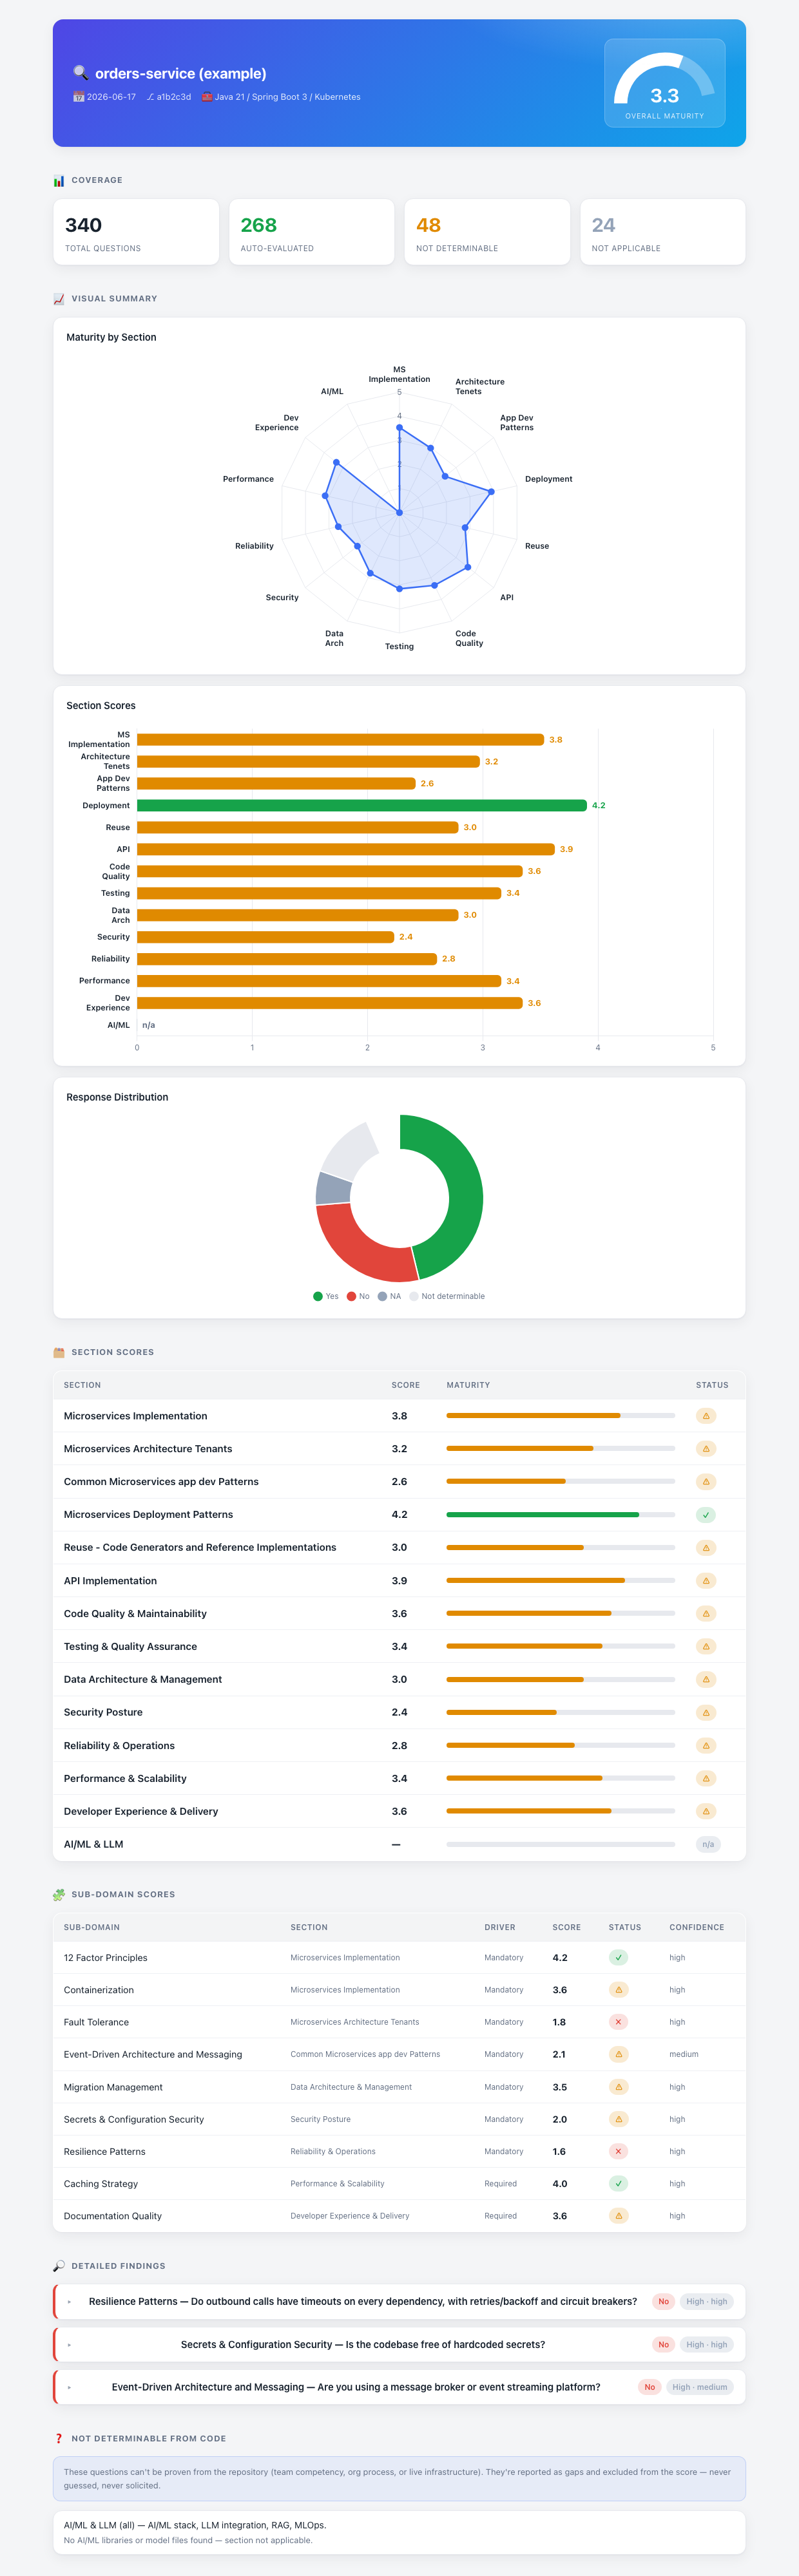
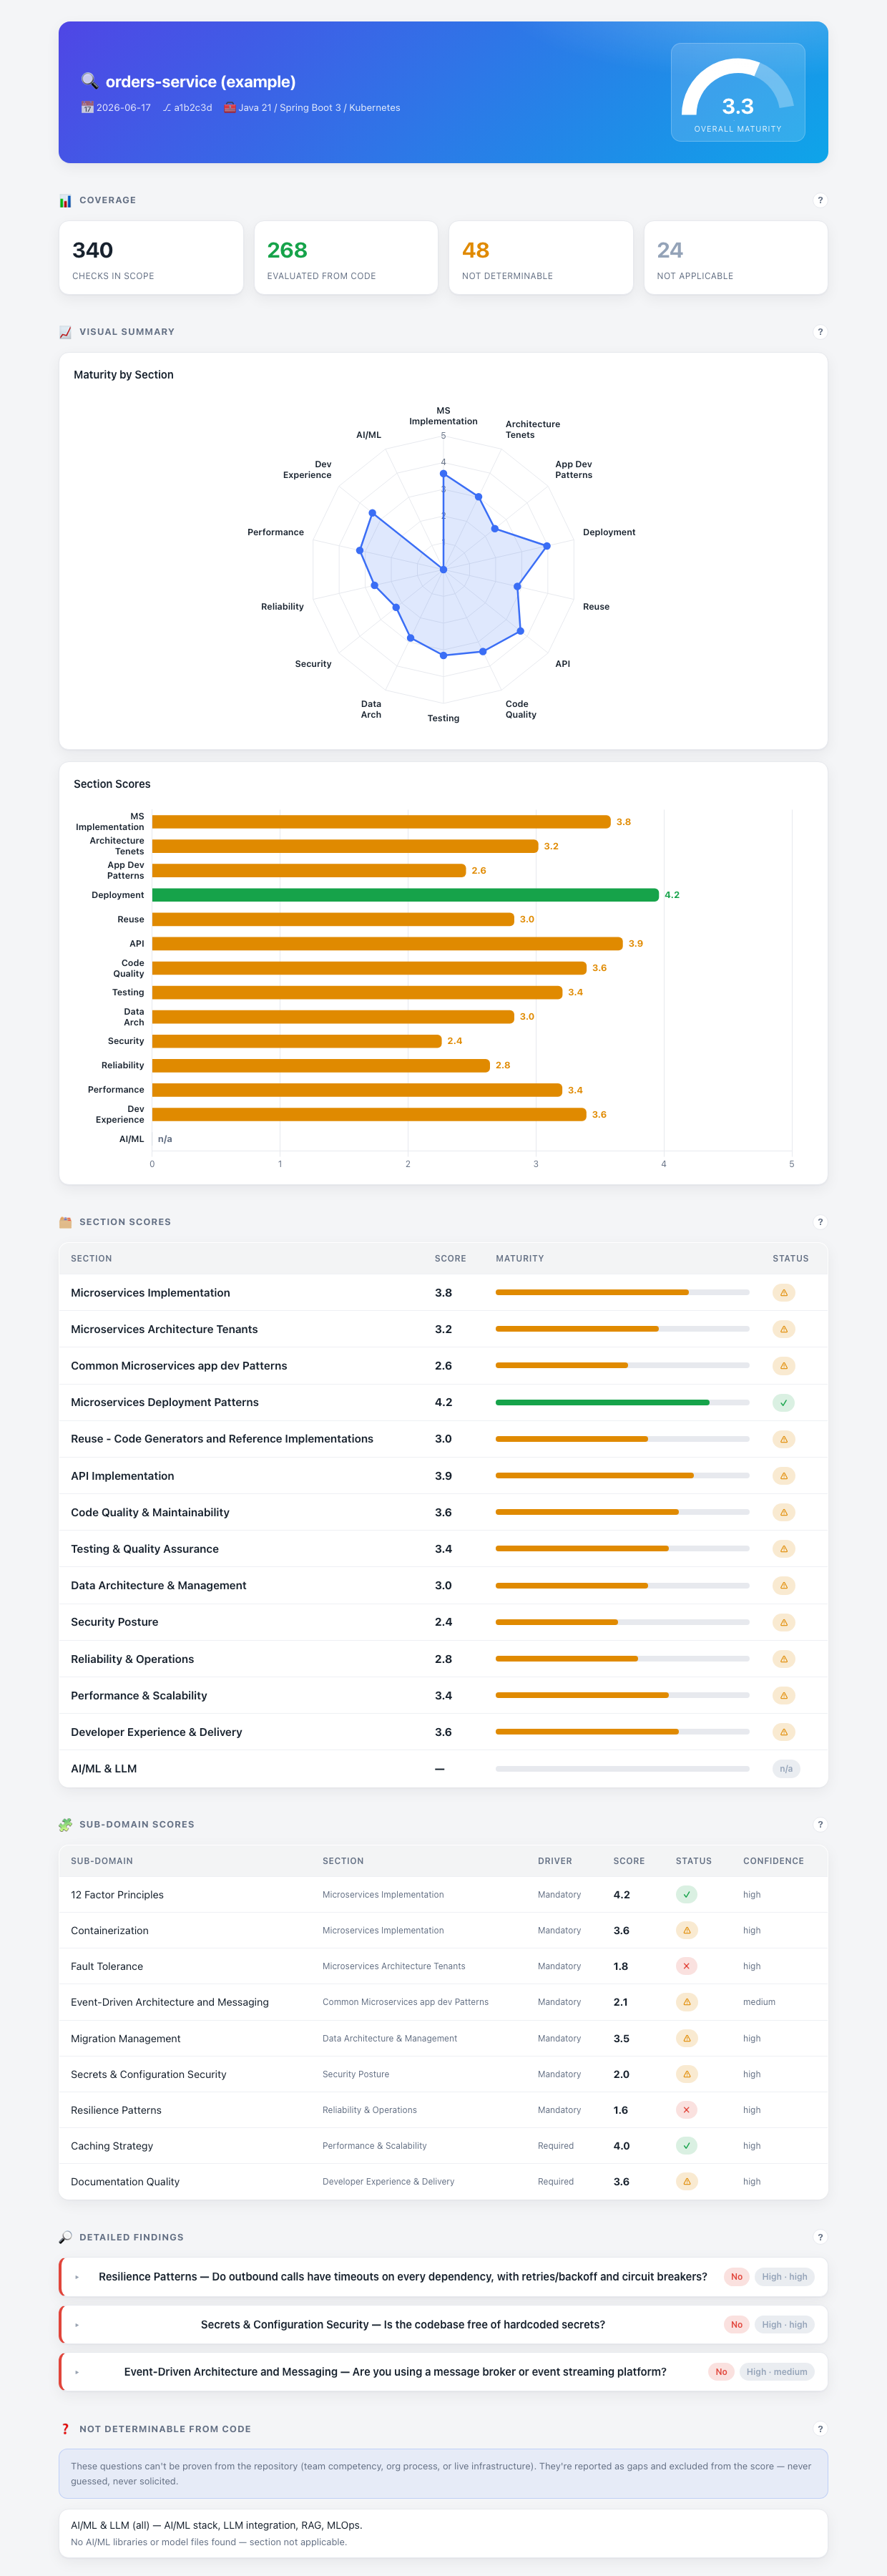
README: reflect report changes (coverage labels, no doughnut, section help)
- Update "The report" section: remove the response-distribution doughnut,
  add the renamed coverage cards and the per-section "?" help toggle.
- Refresh the embedded preview image to the current report design.

diff --git a/report/example-report.html b/report/example-report.html
@@ -52,6 +52,18 @@
   h2 { font-size: 13px; text-transform: uppercase; letter-spacing: .07em; color: var(--muted);
        margin: 40px 0 16px; display: flex; align-items: center; gap: 9px; }
   h2 .ico { font-size: 15px; }
+  .help-btn { margin-left: auto; width: 22px; height: 22px; flex: none; border-radius: 50%;
+              border: 1px solid var(--line); background: var(--panel); color: var(--muted);
+              font: 700 13px ui-sans-serif, sans-serif; cursor: pointer; display: inline-flex;
+              align-items: center; justify-content: center; line-height: 1; transition: all .15s; }
+  .help-btn:hover, .help-btn[aria-expanded="true"] { color: #fff; background: var(--blue); border-color: var(--blue); }
+  .help-note { display: none; margin: -6px 0 20px; padding: 13px 16px; border-radius: 12px;
+               background: color-mix(in srgb, var(--blue) 7%, var(--panel)); border: 1px solid color-mix(in srgb, var(--blue) 24%, transparent);
+               color: var(--ink); font-size: 13.5px; line-height: 1.62; font-weight: 400;
+               text-transform: none; letter-spacing: normal; }
+  .help-note.open { display: block; }
+  .help-note b { font-weight: 600; }
+  @media print { .help-btn { display: none; } .help-note { display: block; } }
 
   /* Cards */
   .cards { display: grid; grid-template-columns: repeat(4, 1fr); gap: 14px; }
@@ -135,30 +147,47 @@
     </div>
   </header>
 
-  <h2><span class="ico">📊</span> Coverage</h2>
+  <h2 data-help="How much of the checklist could be resolved from this repository. <b>Checks in Scope</b> = all checklist items assessed. <b>Evaluated from Code</b> = answered Yes/No from cited code evidence (these are the only ones that affect the score). <b>Not Determinable</b> = can't be proven from a repo (platform, live-infra, or process concerns). <b>Not Applicable</b> = doesn't apply to this repo's architecture."><span class="ico">📊</span> Coverage</h2>
   <div class="cards" id="coverage-cards"></div>
 
-  <h2><span class="ico">📈</span> Visual Summary</h2>
+  <h2 data-help="Charts summarizing the scores. The <b>gauge</b> (top-right) is overall maturity on a 0–5 scale. The <b>radar</b> shows the shape of strengths and weaknesses across sections, and the <b>bar</b> ranks each section's score."><span class="ico">📈</span> Visual Summary</h2>
   <div class="panel"><h3>Maturity by Section</h3><div class="canvas-holder" id="radarHolder" style="height:480px"><canvas id="radarChart"></canvas></div></div>
   <div class="panel" style="margin-top:16px"><h3>Section Scores</h3><div class="canvas-holder" id="barHolder" style="height:560px"><canvas id="barChart"></canvas></div></div>
-  <div class="panel" style="margin-top:16px"><h3>Response Distribution</h3><div class="canvas-holder" style="height:300px"><canvas id="doughnutChart"></canvas></div></div>
 
-  <h2><span class="ico">🗂️</span> Section Scores</h2>
+  <h2 data-help="Each review section scored 0–5, normalized from the weighted Yes/No answers within it (Yes +5, No −5; weighted High×5, Medium×3, Low×1). Status: <b>✓ Strong</b> (4–5), <b>⚠ Needs work</b> (2–4), <b>✗ Critical</b> (below 2), <b>n/a</b> = no scorable questions in this repo."><span class="ico">🗂️</span> Section Scores</h2>
   <table id="section-table"><thead><tr><th>Section</th><th>Score</th><th style="width:36%">Maturity</th><th>Status</th></tr></thead><tbody></tbody></table>
 
-  <h2><span class="ico">🧩</span> Sub-domain Scores</h2>
+  <h2 data-help="Finer-grained scores for the sub-domains inside each section. <b>Driver</b> is the maturity weight (Mandatory / Required / Nice to have). <b>Confidence</b> is how strong the supporting evidence was (high / medium / low)."><span class="ico">🧩</span> Sub-domain Scores</h2>
   <table id="subdomain-table"><thead><tr><th>Sub-domain</th><th>Section</th><th>Driver</th><th>Score</th><th>Status</th><th>Confidence</th></tr></thead><tbody></tbody></table>
 
-  <h2><span class="ico">🔎</span> Detailed Findings</h2>
+  <h2 data-help="Every No (and any low-confidence) answer, each backed by the actual <b>file:line</b> evidence that produced it, plus a recommendation. Click a row to expand. No finding is included without cited evidence — nothing is guessed."><span class="ico">🔎</span> Detailed Findings</h2>
   <div id="findings"></div>
 
-  <h2><span class="ico">❓</span> Not Determinable from Code</h2>
+  <h2 data-help="Questions that genuinely can't be proven from a repository — team/process concerns, live infrastructure, or things owned by the platform. They're listed transparently as gaps and excluded from the score, never guessed and never invented."><span class="ico">❓</span> Not Determinable from Code</h2>
   <div class="note">These questions can't be proven from the repository (team competency, org process, or live infrastructure). They're reported as gaps and excluded from the score — never guessed, never solicited.</div>
   <div class="gaplist" id="gaps"></div>
 
   <footer>Generated by <strong>/ms-audit</strong> · every Yes/No is backed by cited evidence from the target repository.</footer>
 </div>
 
+<script>
+// Section help: add a "?" toggle to each section heading that reveals an explanation.
+(function () {
+  document.querySelectorAll('h2[data-help]').forEach(function (h) {
+    var btn = document.createElement('button');
+    btn.type = 'button'; btn.className = 'help-btn'; btn.textContent = '?';
+    btn.setAttribute('aria-label', 'Explain this section'); btn.setAttribute('aria-expanded', 'false');
+    var note = document.createElement('div');
+    note.className = 'help-note'; note.innerHTML = h.getAttribute('data-help');
+    h.appendChild(btn);
+    h.parentNode.insertBefore(note, h.nextSibling);
+    btn.addEventListener('click', function () {
+      var open = note.classList.toggle('open');
+      btn.setAttribute('aria-expanded', open ? 'true' : 'false');
+    });
+  });
+})();
+</script>
 <script id="audit-data" type="application/json">{"meta": {"repo": "orders-service (example)", "date": "2026-06-17", "commit": "a1b2c3d", "stack": "Java 21 / Spring Boot 3 / Kubernetes", "overall_score": 3.3}, "coverage": {"total": 340, "auto_evaluated": 268, "not_determinable": 48, "na": 24}, "responses": {"yes": 168, "no": 100, "na": 24, "not_determinable": 48}, "sections": [{"name": "Microservices Implementation", "short": "MS Implementation", "score": 3.8, "status": "⚠"}, {"name": "Microservices Architecture Tenants", "short": "Architecture Tenets", "score": 3.2, "status": "⚠"}, {"name": "Common Microservices app dev Patterns", "short": "App Dev Patterns", "score": 2.6, "status": "⚠"}, {"name": "Microservices Deployment Patterns", "short": "Deployment", "score": 4.2, "status": "✓"}, {"name": "Reuse - Code Generators and Reference Implementations", "short": "Reuse", "score": 3.0, "status": "⚠"}, {"name": "API Implementation", "short": "API", "score": 3.9, "status": "⚠"}, {"name": "Code Quality \u0026 Maintainability", "short": "Code Quality", "score": 3.6, "status": "⚠"}, {"name": "Testing \u0026 Quality Assurance", "short": "Testing", "score": 3.4, "status": "⚠"}, {"name": "Data Architecture \u0026 Management", "short": "Data Arch", "score": 3.0, "status": "⚠"}, {"name": "Security Posture", "short": "Security", "score": 2.4, "status": "⚠"}, {"name": "Reliability \u0026 Operations", "short": "Reliability", "score": 2.8, "status": "⚠"}, {"name": "Performance \u0026 Scalability", "short": "Performance", "score": 3.4, "status": "⚠"}, {"name": "Developer Experience \u0026 Delivery", "short": "Dev Experience", "score": 3.6, "status": "⚠"}, {"name": "AI/ML \u0026 LLM", "short": "AI/ML", "score": null, "status": "n/a"}], "subdomains": [{"name": "12 Factor Principles", "section": "Microservices Implementation", "score": 4.2, "status": "✓", "confidence": "high", "maturity_driver": "Mandatory"}, {"name": "Containerization", "section": "Microservices Implementation", "score": 3.6, "status": "⚠", "confidence": "high", "maturity_driver": "Mandatory"}, {"name": "Fault Tolerance", "section": "Microservices Architecture Tenants", "score": 1.8, "status": "✗", "confidence": "high", "maturity_driver": "Mandatory"}, {"name": "Event-Driven Architecture and Messaging", "section": "Common Microservices app dev Patterns", "score": 2.1, "status": "⚠", "confidence": "medium", "maturity_driver": "Mandatory"}, {"name": "Migration Management", "section": "Data Architecture \u0026 Management", "score": 3.5, "status": "⚠", "confidence": "high", "maturity_driver": "Mandatory"}, {"name": "Secrets \u0026 Configuration Security", "section": "Security Posture", "score": 2.0, "status": "⚠", "confidence": "high", "maturity_driver": "Mandatory"}, {"name": "Resilience Patterns", "section": "Reliability \u0026 Operations", "score": 1.6, "status": "✗", "confidence": "high", "maturity_driver": "Mandatory"}, {"name": "Caching Strategy", "section": "Performance \u0026 Scalability", "score": 4.0, "status": "✓", "confidence": "high", "maturity_driver": "Required"}, {"name": "Documentation Quality", "section": "Developer Experience \u0026 Delivery", "score": 3.6, "status": "⚠", "confidence": "high", "maturity_driver": "Required"}], "findings": [{"domain": "Resilience Patterns", "section": "Reliability \u0026 Operations", "question": "Do outbound calls have timeouts on every dependency, with retries/backoff and circuit breakers?", "response": "No", "weightage": "H", "confidence": "high", "evidence": "No resilience4j dependency in build.gradle; OrderClient.java:34 calls downstream services with RestTemplate and no timeout or fallback.", "recommendation": "Add Resilience4j circuit breakers and connect/read timeouts on all downstream HTTP clients."}, {"domain": "Secrets \u0026 Configuration Security", "section": "Security Posture", "question": "Is the codebase free of hardcoded secrets?", "response": "No", "weightage": "H", "confidence": "high", "evidence": "Database password committed in src/main/resources/application-prod.yml:9.", "recommendation": "Move the secret to a secrets manager, inject at runtime, purge the committed value, and rotate it."}, {"domain": "Event-Driven Architecture and Messaging", "section": "Common Microservices app dev Patterns", "question": "Are you using a message broker or event streaming platform?", "response": "No", "weightage": "H", "confidence": "medium", "evidence": "No messaging dependency in build.gradle; all inter-service calls are synchronous REST (OrderService.java:51).", "recommendation": "Introduce async events for cross-service workflows to decouple services."}], "gaps": [{"domain": "AI/ML \u0026 LLM (all)", "section": "AI/ML \u0026 LLM", "question": "AI/ML stack, LLM integration, RAG, MLOps.", "reason": "No AI/ML libraries or model files found — section not applicable."}]}</script>
 <script>
 (function () {
@@ -192,10 +221,10 @@
   // Coverage cards
   var c = DATA.coverage;
   var cards = [
-    ['', c.total, 'Total questions'],
-    ['accent-green', c.auto_evaluated, 'Auto-evaluated'],
-    ['accent-amber', c.not_determinable, 'Not determinable'],
-    ['accent-slate', c.na, 'Not applicable']
+    ['', c.total, 'Checks in Scope'],
+    ['accent-green', c.auto_evaluated, 'Evaluated from Code'],
+    ['accent-amber', c.not_determinable, 'Not Determinable'],
+    ['accent-slate', c.na, 'Not Applicable']
   ];
   document.getElementById('coverage-cards').innerHTML = cards.map(function (x) {
     return '<div class="card ' + x[0] + '"><div class="k">' + esc(x[1]) + '</div><div class="v">' + esc(x[2]) + '</div></div>';
@@ -250,15 +279,6 @@
       ctx.fillStyle = '#fff'; ctx.font = '700 30px ' + Chart.defaults.font.family; ctx.fillText(sc.toFixed(1), x, y - 2);
       ctx.fillStyle = 'rgba(255,255,255,.8)'; ctx.font = '11px ' + Chart.defaults.font.family; ctx.fillText('of 5.0', x, y + 16); ctx.restore();
     } }]
-  });
-
-  var r = DATA.responses;
-  new Chart(document.getElementById('doughnutChart'), {
-    type: 'doughnut',
-    data: { labels: ['Yes', 'No', 'NA', 'Not determinable'],
-      datasets: [{ data: [r.yes, r.no, r.na, r.not_determinable], backgroundColor: [GREEN, RED, SLATE, LINE],
-        borderWidth: 2, borderColor: css.getPropertyValue('--panel').trim() }] },
-    options: { maintainAspectRatio: false, responsive: true, cutout: '58%', plugins: { legend: { position: 'bottom', labels: { padding: 14, usePointStyle: true } } } }
   });
 
   // Short labels for chart axes; multi-word labels wrap to 2 lines so they stay readable.

diff --git a/README.md b/README.md
@@ -24,7 +24,7 @@ Run one command, point it at a repository, and an AI assessor walks a **340-ques
 - 🤖 **Fully automated** — the model does all the work; you never answer a question.
 - 🧾 **Evidence-based** — every Yes/No cites a real `file:line`. No hallucinations. ([guarantee ↓](#-evidence-based-guarantee))
 - 🌐 **Stack-agnostic** — Java/Spring, .NET, Python, Node.js, Go, Rust, and more.
-- 📊 **Beautiful output** — gauge, radar, doughnut & bar charts in a single HTML file (light + dark mode).
+- 📊 **Beautiful output** — gauge, radar & bar charts in a single HTML file (light + dark mode), with per-section "?" help.
 - 💸 **Economical** — gathers evidence once and reuses it, so a run stays token-light. ([details ↓](#-cost--token-economy))
 
 ## ⚙️ How it works
@@ -117,14 +117,15 @@ The assessor detects your stack and looks for that ecosystem's equivalents — a
 A single self-contained `report.html` (light + dark mode) containing:
 
 - 🎯 **Overall maturity gauge** (0–5)
-- 🍩 **Response distribution** — Yes / No / NA / Not determinable
 - 🕸️ **Maturity-by-section radar**
-- 📊 **Section-score bar** (color-coded by status)
+- 📊 **Section-score bar** (color-coded by status, with value labels)
+- 📋 **Coverage cards** — Checks in Scope · Evaluated from Code · Not Determinable · Not Applicable
 - 📋 Section & sub-domain score tables
 - 🔎 Collapsible findings — each with **cited evidence** and a recommendation
 - ❓ The list of items not determinable from code
+- ❔ A **"?" help toggle** on every section that explains how to read it
 
-> Charts load Chart.js from a CDN, so the gauge/radar/bar/doughnut need internet to render. Tables and all findings work fully offline.
+> Charts load Chart.js from a CDN, so the gauge/radar/bar need internet to render. Tables and all findings work fully offline.
 
 ## 🛡️ Evidence-based guarantee
 